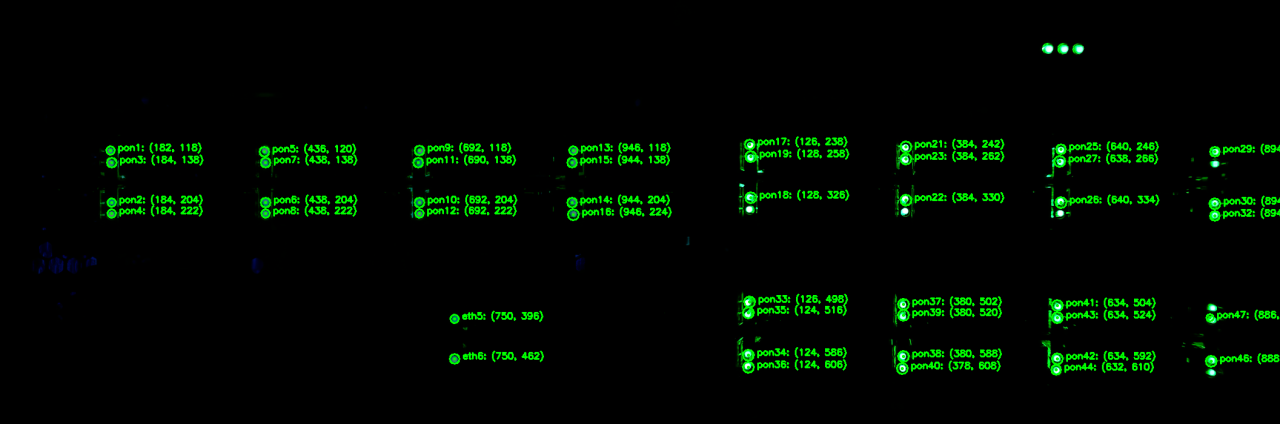
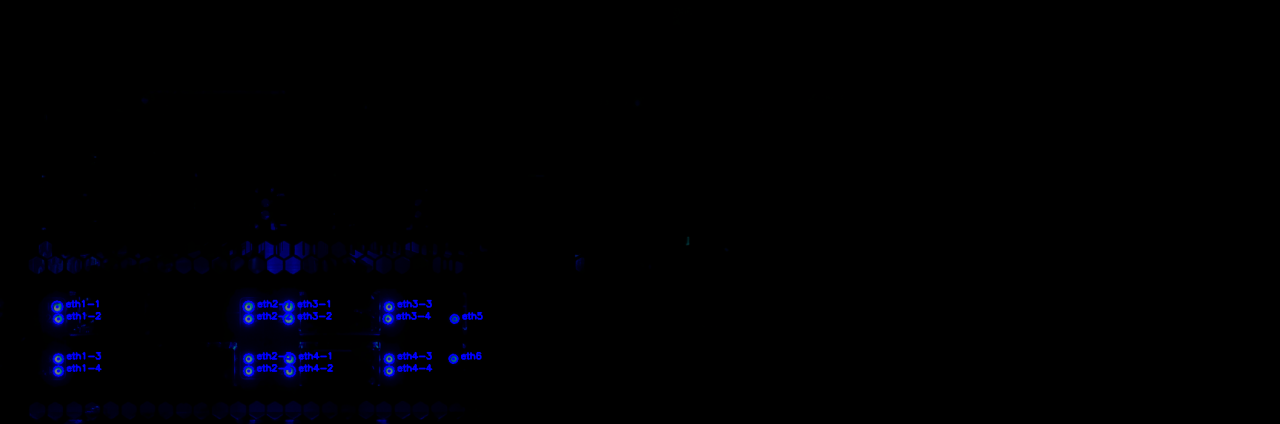
updates

diff --git a/LED_missingsockets.py b/LED_missingsockets.py
@@ -136,8 +136,9 @@ def detect_LED(frame):
             dominant_color, color_percentages, draw_color = detect_led_color(original_image, center[0], center[1], radius)
             cv2.circle(frame, center, 1, draw_color, 2)  # Green center
             cv2.circle(frame, center, radius, draw_color, 2)  # Red outline
+            #print(center)
             ledid=getLEDID(center)
-            cv2.putText(frame,f"{ledid}: {center}",
+            cv2.putText(frame,f"{ledid}",
                         (center[0] + radius+5, center[1]),
                         cv2.FONT_HERSHEY_SIMPLEX, 0.5, draw_color, 2)
     return frame
@@ -197,14 +198,14 @@ def main():
                         frame = np.ascontiguousarray(frame)  # Ensure contiguous
                         
                         #print(devicesID)
-                        if stream_name=="Camera 2":  #(515, 127) and (1522, 850)
+                        if stream_name=="Camera 2": 
                             frame = frame[120:820, 500:1502]
-                        else:  #(342, 258) and (1451, 810)
+                        else: 
                             frame = frame[250:820, 340:1451]
                         frame= detect_LED(frame)  # Detect LED in the frame
                         frames[stream_name] = frame
                         cv2.imshow(stream_name, frame)
-                        cv2.imwrite(f"{stream_name}.png", frame)  # Save individual frames for inspection
+                        cv2.imwrite(f"{stream_name}.png", frame)
 
                 if len(frames) == 2:  # Ensure both frames are available
 
